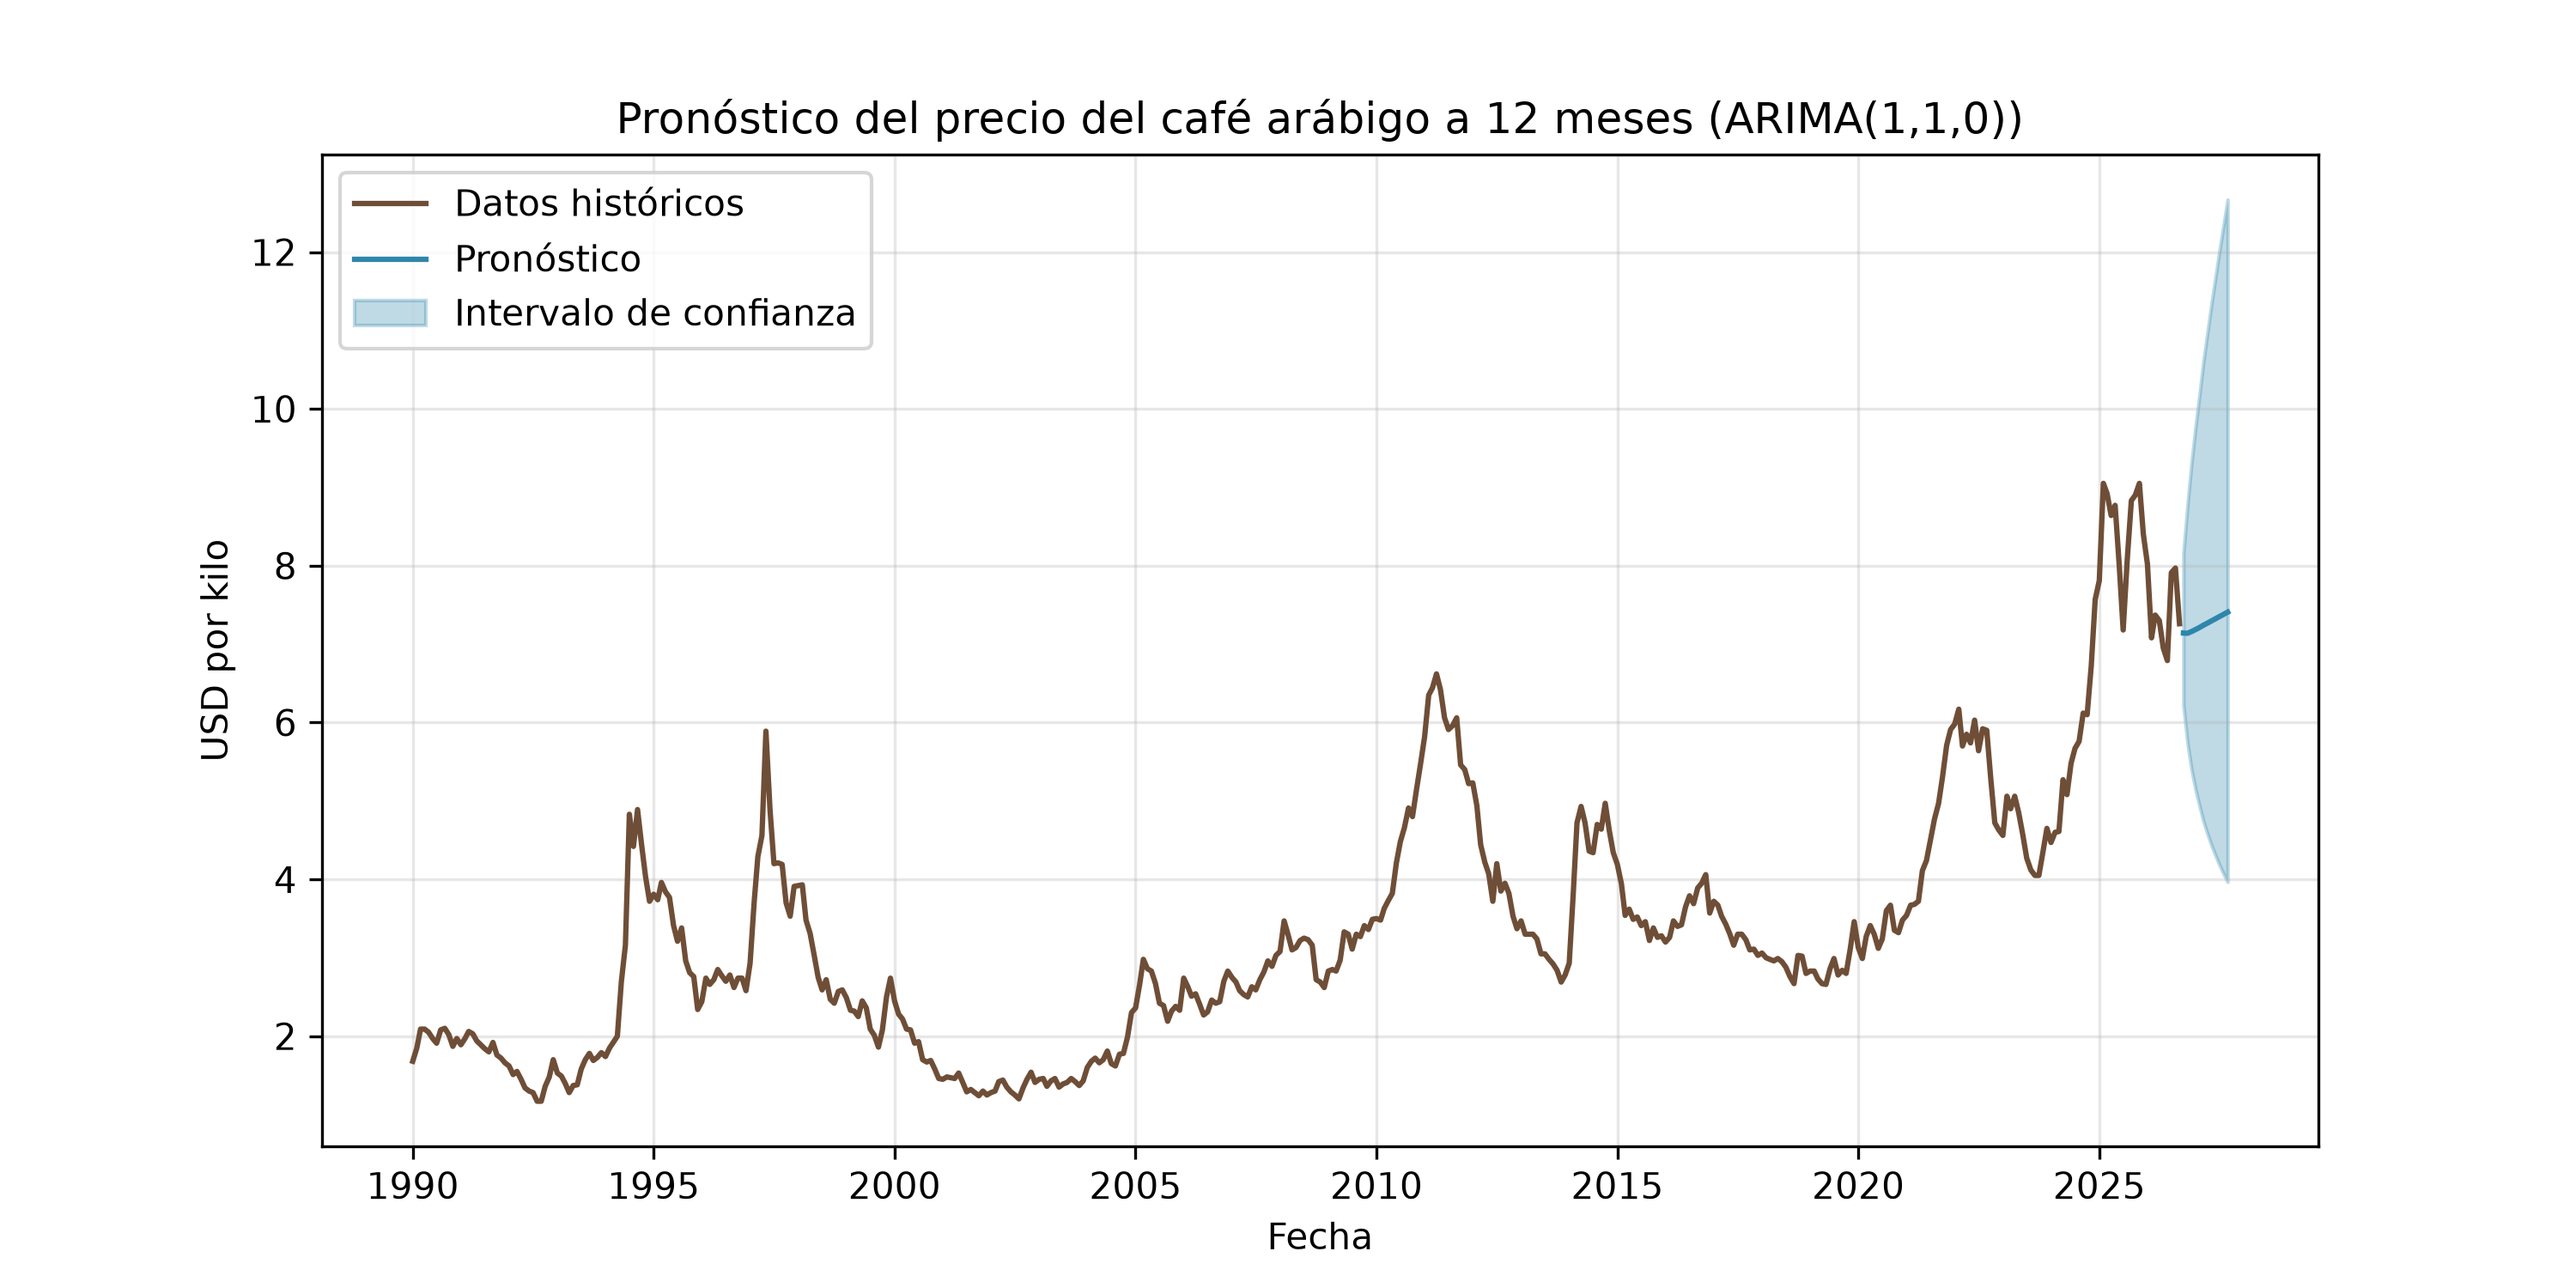
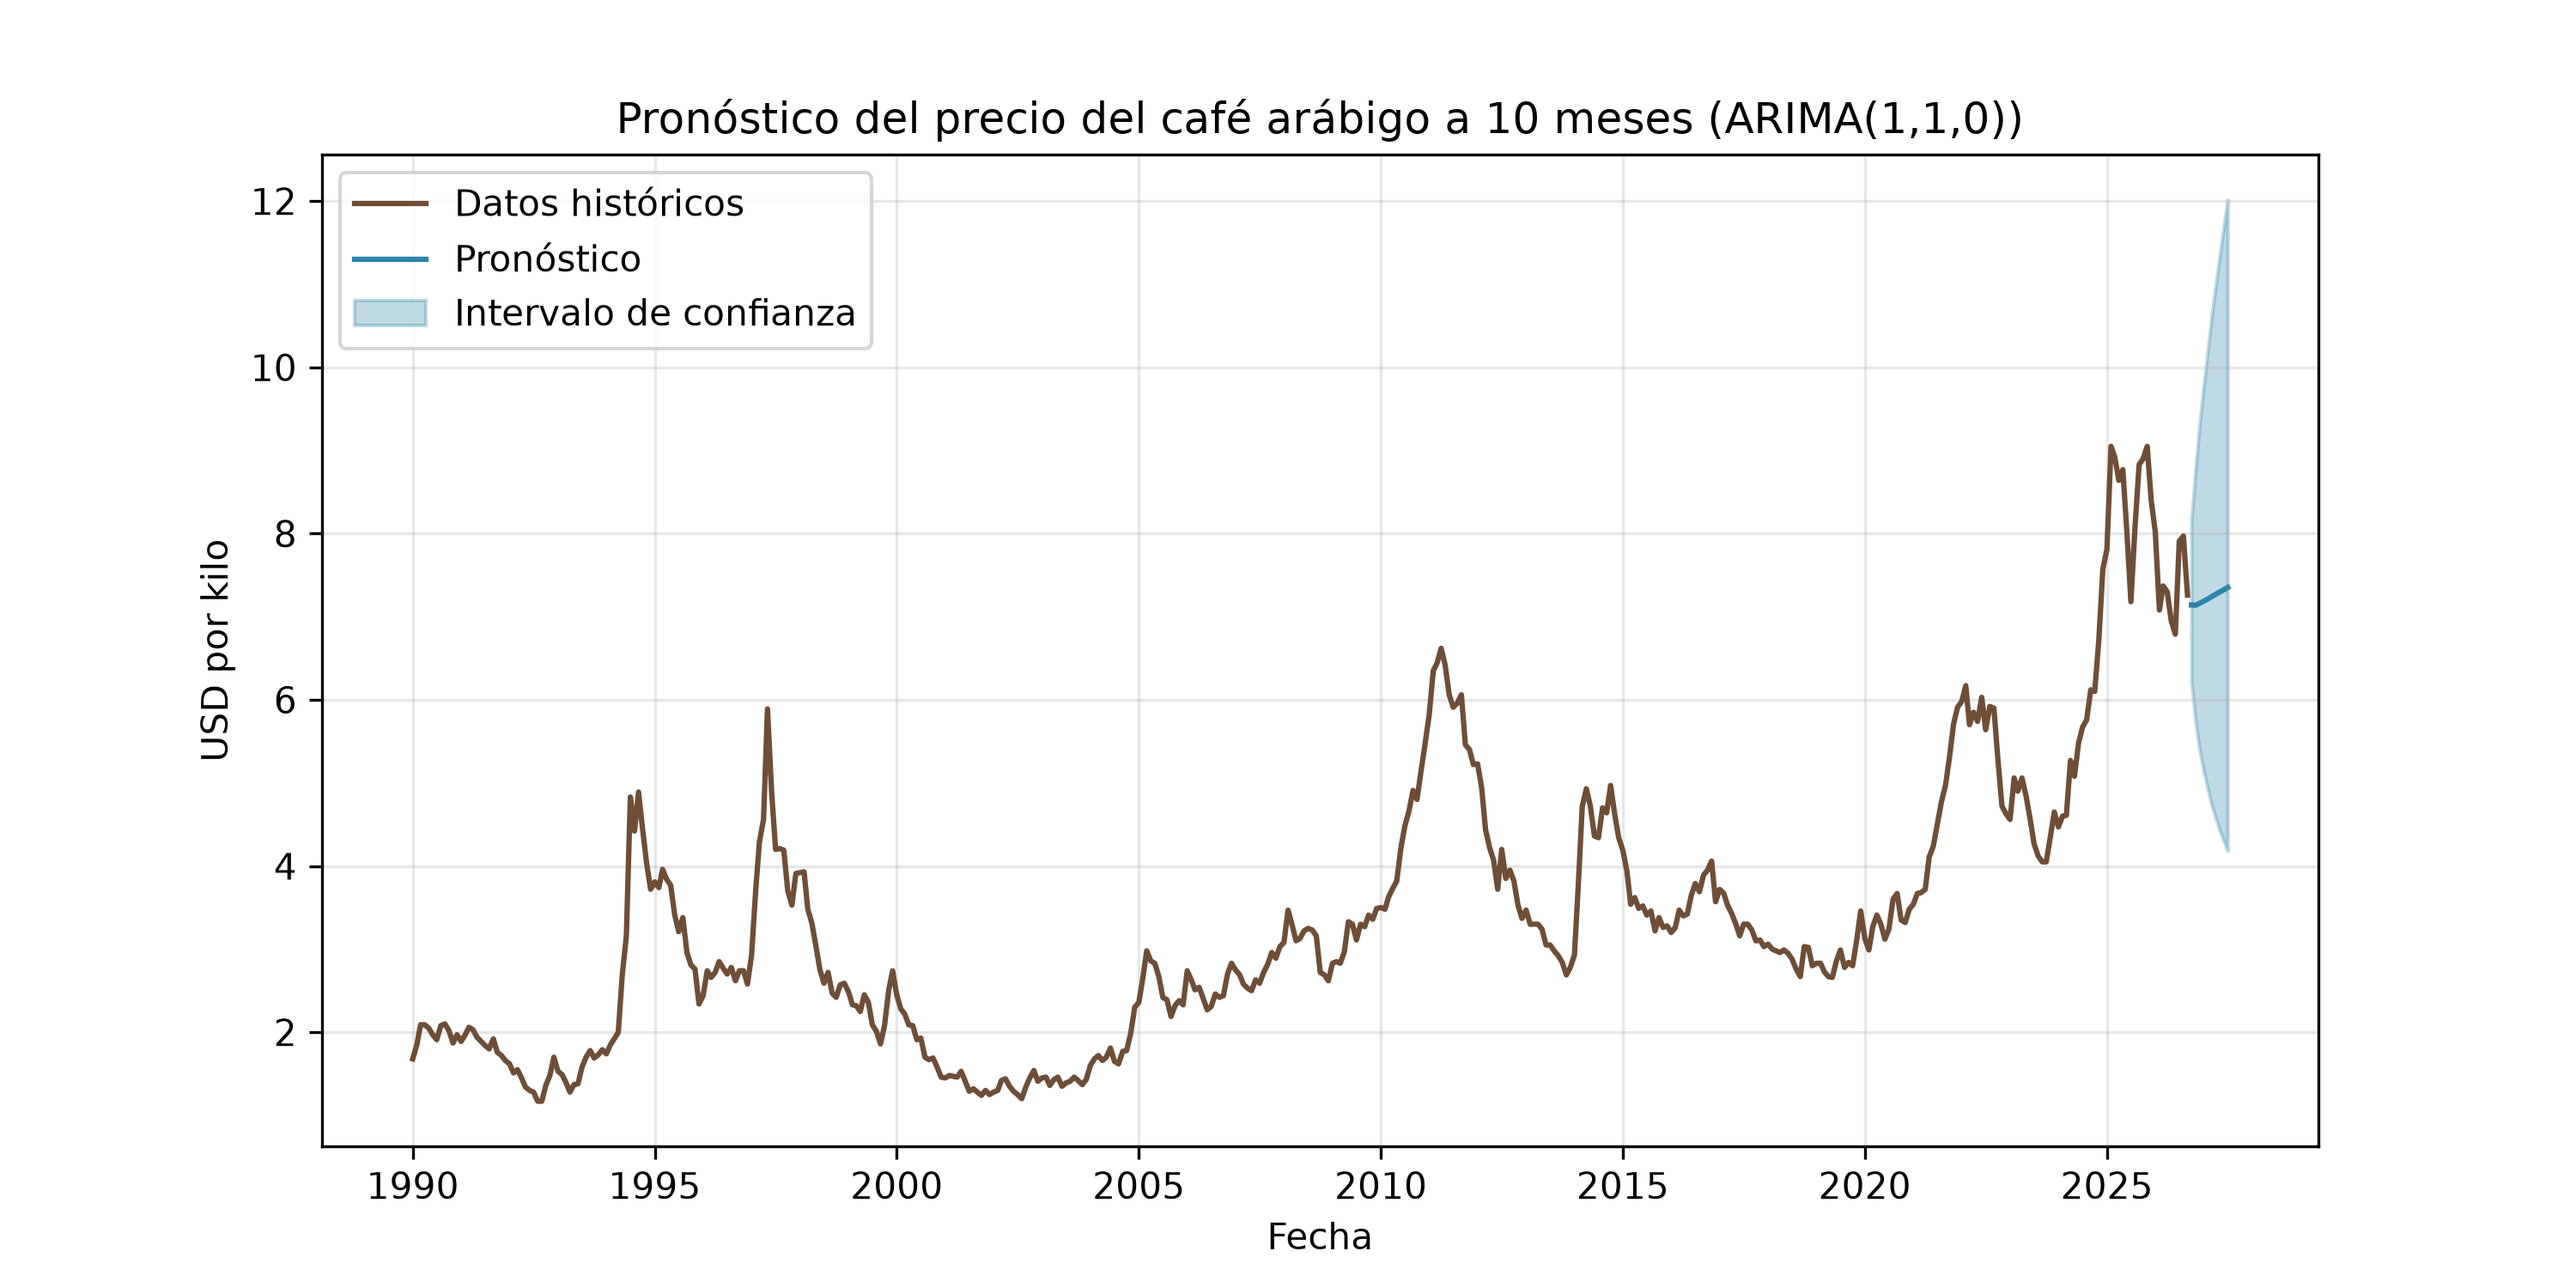
Carga de datos robusta y pronóstico a 10 meses
Carga de datos:
- Busca la base de datos junto al script, en la carpeta actual y hasta
  tres carpetas arriba; funciona aunque __file__ no exista (Jupyter,
  ventana interactiva de VS Code)
- Acepta .csv o .xlsx, sin distinguir mayúsculas en el nombre
- Lee el CSV con separador ";" o "," y precios con coma decimal
- Ya no usa date_format, que solo existe desde pandas 2.0
- El inicio de la muestra (1990-01) queda fijo en el código, así el
  Excel (que tiene datos desde 1960) da los mismos resultados que el CSV
- Mensaje claro con las carpetas revisadas si no encuentra el archivo

Pronóstico:
- Horizonte de 10 meses en una sola constante (HORIZONTE) usada en el
  pronóstico, el bootstrap y los títulos de las gráficas

diff --git a/poster_script.py b/poster_script.py
@@ -17,11 +17,50 @@ from scipy.stats import kruskal
 from statsmodels.tsa.stattools import acf
 
 #%% Rutas relativas
-RAIZ = Path(__file__).resolve().parent
-DATOS = RAIZ / "datos"
-ruta_cafe = DATOS / "cafe_arabica.csv" #ruta al archivo de datos   
-RESULTADOS = RAIZ / "resultados"  #carpeta para guardar resultados
-RESULTADOS.mkdir(exist_ok=True)  
+
+# Nombre de la base de datos (sin extensión) y periodo de la muestra
+NOMBRE_DATOS = "cafe_arabica"
+INICIO_MUESTRA = "1990-01"
+
+# Carpeta del script. En Jupyter o en la ventana interactiva de VS Code
+# __file__ no existe, así que se usa la carpeta desde donde se corre.
+try:
+    CARPETA_SCRIPT = Path(__file__).resolve().parent
+except NameError:
+    CARPETA_SCRIPT = Path.cwd()
+
+
+def buscar_datos(nombre=NOMBRE_DATOS):
+    """Busca la base de datos sin depender de desde qué carpeta se corra el código.
+
+    Revisa la carpeta "datos" junto al script, la carpeta actual y hasta tres
+    carpetas hacia arriba. Acepta .csv o .xlsx y no distingue mayúsculas.
+    """
+    bases = [CARPETA_SCRIPT, Path.cwd(), *list(Path.cwd().parents)[:3]]
+    carpetas = []
+    for base in bases:
+        carpetas += [base / "datos", base, base / "Poster-Econometria-2" / "datos"]
+
+    for extension in [".csv", ".xlsx"]:
+        buscado = (nombre + extension).lower()
+        for carpeta in carpetas:
+            if not carpeta.is_dir():
+                continue
+            for archivo in carpeta.iterdir():
+                if archivo.name.lower() == buscado:
+                    return archivo
+
+    revisadas = "\n  ".join(str(c) for c in dict.fromkeys(carpetas))
+    raise FileNotFoundError(
+        f"No se encontró '{nombre}.csv' ni '{nombre}.xlsx'. Carpetas revisadas:\n  {revisadas}"
+    )
+
+
+ruta_cafe = buscar_datos()  # Ruta al archivo de datos
+RAIZ = ruta_cafe.parent.parent if ruta_cafe.parent.name.lower() == "datos" else ruta_cafe.parent
+RESULTADOS = RAIZ / "resultados"  # Carpeta para guardar resultados
+RESULTADOS.mkdir(exist_ok=True)
+print("Datos:", ruta_cafe)
 
 #%% Paleta de colores para las gráficas
 COLORES = {
@@ -54,14 +93,23 @@ def colorear_correlograma(ax, color):
             coleccion.set_alpha(0.2)
 
 #%% Cargar Datos
-# Datos cargados
-cafe = pd.read_csv(ruta_cafe,
-                    sep=";",
-                    index_col="fecha",
-                    parse_dates=True,
-                    date_format="%Y-%m"
-)
-cafe = cafe.asfreq("MS") 
+
+# Se lee todo como texto para que funcione igual con CSV o Excel, con
+# separador ";" o "," y con cualquier versión de pandas.
+if ruta_cafe.suffix.lower() == ".csv":
+    cafe = pd.read_csv(ruta_cafe, sep=None, engine="python", dtype=str, encoding="utf-8-sig")
+else:
+    cafe = pd.read_excel(ruta_cafe, sheet_name=0, dtype=str)
+
+cafe.columns = cafe.columns.str.strip().str.lower()
+
+# Fecha en formato AAAA-MM y precio con punto decimal (por si Excel guardó "0,94")
+cafe["fecha"] = pd.to_datetime(cafe["fecha"].str.strip().str[:7], format="%Y-%m")
+cafe["precio"] = cafe["precio"].str.strip().str.replace(",", ".", regex=False)
+
+cafe = cafe.set_index("fecha").sort_index()
+cafe = cafe.loc[INICIO_MUESTRA:]  # Muestra del análisis: desde enero de 1990
+cafe = cafe.asfreq("MS")
 print(cafe.tail())
 print("Observaciones:", len(cafe))
 
@@ -479,8 +527,11 @@ else:
 
 # A partir de la estimación del AR(1) se realizó el pronóstico
 
-# Pronóstico 12 pasos adelante
-pronostico_log = estimacion_ar1.get_forecast(steps=12)
+# Horizonte del pronóstico (en meses)
+HORIZONTE = 10
+
+# Pronóstico 10 pasos adelante
+pronostico_log = estimacion_ar1.get_forecast(steps=HORIZONTE)
 
 # Pronóstico puntual e intervalos de predicción del logaritmo del precio del café
 pronostico_puntual_log = pronostico_log.predicted_mean
@@ -513,7 +564,7 @@ plt.fill_between(
     alpha=0.3,
     label="Intervalo de confianza"
 )
-plt.title("Pronóstico del precio del café arábigo a 12 meses (ARIMA(1,1,0))")
+plt.title(f"Pronóstico del precio del café arábigo a {HORIZONTE} meses (ARIMA(1,1,0))")
 plt.xlabel("Fecha")
 plt.ylabel("USD por kilo")
 plt.legend(loc="upper left")
@@ -595,7 +646,7 @@ plt.plot(intervalos_boot["inferior"], color=COLORES["fac"], linewidth=1.5, label
 plt.plot(intervalos_boot["superior"], color=COLORES["fac"], linewidth=1.5)
 plt.axvline(cafe_serie.index[-1], color=COLORES["banda"], linewidth=1, linestyle=":")
 plt.title(
-    "Pronóstico del precio del café arábigo a 12 meses\n"
+    f"Pronóstico del precio del café arábigo a {HORIZONTE} meses\n"
     f"Intervalo normal frente a intervalo por bootstrap de residuales ({B_pron} trayectorias)",
     fontsize=12,
 )
